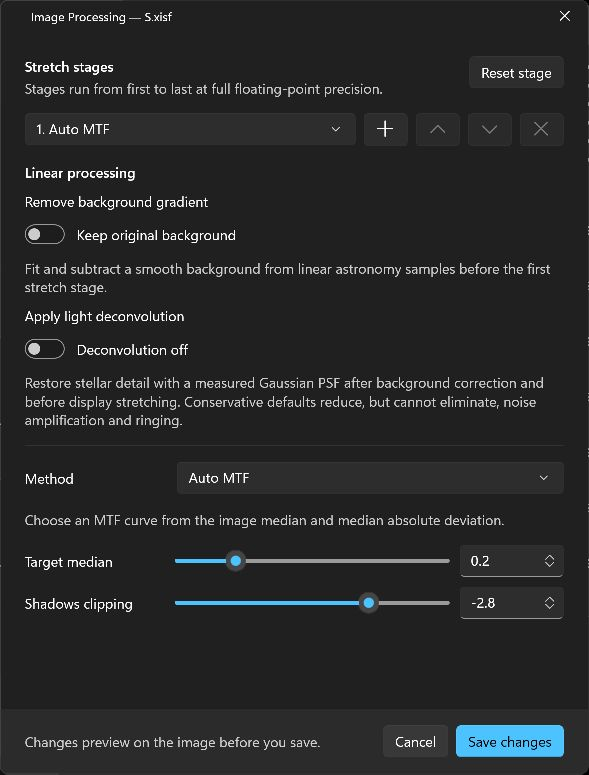
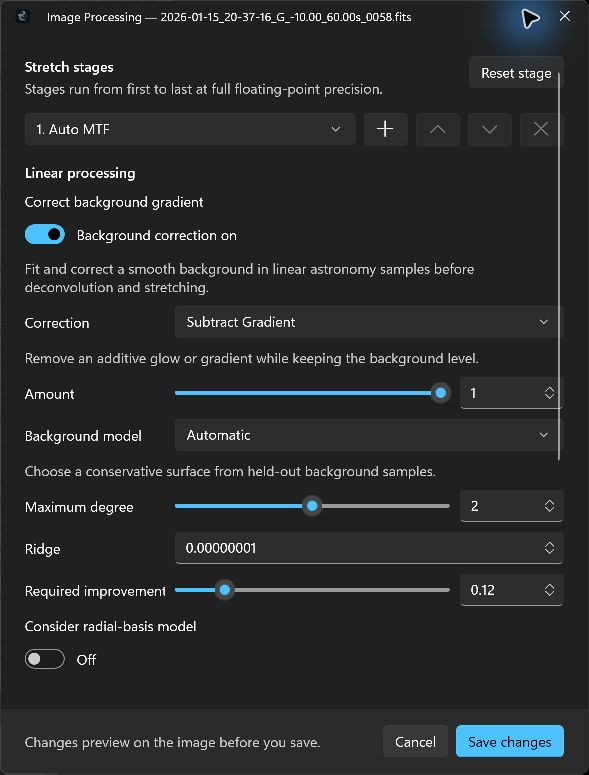
Prepare Seiza for Windows 0.5.3

diff --git a/README.md b/README.md
@@ -4,22 +4,23 @@ Seiza is a fast, native Windows astronomy image viewer and plate-solving app.
 It combines a modern WinUI 3 interface and GPU-backed viewport with the same
 Rust image, catalog, and solving core used by Seiza on macOS.
 
-[Download Seiza 0.5.2 for Windows (x64)](https://github.com/theatrus/seiza-win/releases/download/v0.5.2/seiza-0.5.2-windows-x86_64.msi)
+[Download Seiza 0.5.3 for Windows (x64)](https://github.com/theatrus/seiza-win/releases/download/v0.5.3/seiza-0.5.3-windows-x86_64.msi)
 · [Release notes and previous versions](https://github.com/theatrus/seiza-win/releases)
 
 ![A solved NGC 7000 FITS image with WCS grid, catalog overlays, solution summary, and histogram inspector](docs/images/solved-overlays.png)
 
-## Seiza 0.5.2 release highlights
+## Seiza 0.5.3 release highlights
 
-- Select a FITS or XISF file in File Explorer to inspect an autostretched image
-  in the Preview Pane without opening Seiza.
-- Open images in independent document windows while one Seiza process handles
-  multi-file Open, shell activation, and already-open document focusing.
-- Export FITS and XISF data as true 16-bit-per-channel PNG or TIFF, clean or
-  composited with the currently visible overlays.
-- In-app updates now preserve the signed appcast's MSI filename across GitHub
-  release redirects, allowing Windows Installer to start reliably after the
-  download is verified.
+- Choose automatic, polynomial, or radial-basis background models for FITS and
+  XISF processing, with additive subtraction or multiplicative division.
+- Tune background strength and model-specific fitting parameters while the
+  full-resolution preview updates through the Seiza 0.14 processing core.
+- Let automatic selection compare polynomial fits and optionally consider a
+  flexible radial-basis model, with a minimum-improvement threshold that helps
+  protect real nebula and galaxy structure.
+- Preserve the complete background recipe through undo/redo, adjustment
+  copy/paste, and folder navigation, and inspect fitted-model and sample counts
+  in image metadata.
 
 ### Native Explorer previews and thumbnails
 
@@ -143,8 +144,8 @@ remaining macOS and Windows integration work.
 
 ## Install
 
-Download the [Seiza 0.5.2 x64 MSI](https://github.com/theatrus/seiza-win/releases/download/v0.5.2/seiza-0.5.2-windows-x86_64.msi).
-Its [SHA-256 checksums](https://github.com/theatrus/seiza-win/releases/download/v0.5.2/SHA256SUMS.txt)
+Download the [Seiza 0.5.3 x64 MSI](https://github.com/theatrus/seiza-win/releases/download/v0.5.3/seiza-0.5.3-windows-x86_64.msi).
+Its [SHA-256 checksums](https://github.com/theatrus/seiza-win/releases/download/v0.5.3/SHA256SUMS.txt)
 are published beside it. The installer places Seiza in
 `Program Files\Seiza for Windows` for every user, adds a shared Start Menu
 shortcut, and registers `.fit`, `.fits`, `.fts`, and `.xisf` with Windows
@@ -181,7 +182,7 @@ Build the self-contained all-users WiX MSI:
 ```powershell
 dotnet build packaging\windows\Seiza.App.wixproj `
   -c Release `
-  -p:SeizaVersion=0.5.2
+  -p:SeizaVersion=0.5.3
 ```
 
 The installer is written to `dist`. See the

diff --git a/docs/releases/v0.5.3.md b/docs/releases/v0.5.3.md
@@ -1,0 +1,38 @@
+# Seiza for Windows 0.5.3
+
+This release adds the Seiza 0.14 background-model controls to the Windows
+astronomy processing workflow.
+
+## Changes
+
+- Added automatic, polynomial, and radial-basis background models for FITS and
+  XISF images, with both subtract and divide correction modes.
+- Added adjustable correction strength and model-specific controls for
+  polynomial degree and ridge, radial-basis smoothing and control points, and
+  automatic model selection.
+- Added optional radial-basis consideration and a minimum-improvement threshold
+  to automatic selection. The interface warns that flexible radial-basis fits
+  can remove genuine extended nebula or galaxy detail.
+- Preserved complete background configurations through undo and redo,
+  adjustment copy/paste, and folder navigation. Recipes from older releases
+  continue to load as degree-two polynomial corrections.
+- Added the fitted model and accepted/candidate background sample counts to the
+  metadata inspector.
+- Updated the native processing core to Seiza 0.14.0.
+
+## Update from 0.5.2
+
+Use **More > Check for updates** or **Settings > Check now**. Seiza verifies the
+signed appcast and MSI before opening Windows Installer, then exits so the
+normal UAC and in-place upgrade can run.
+
+## Install directly
+
+Download `seiza-0.5.3-windows-x86_64.msi` and compare it with the value in
+`SHA256SUMS.txt`. Windows 11 24H2 or newer on an x64 computer is required.
+
+The installer is self-contained and installs Seiza for every user. It includes
+the .NET 10 and Windows App SDK runtimes. The MSI is not yet
+Authenticode-signed, so Windows can show an unknown-publisher warning even
+though Seiza's updater independently verifies the release with its Ed25519
+trust key.

diff --git a/packaging/windows/README.md b/packaging/windows/README.md
@@ -23,7 +23,7 @@ Build the installer from the repository root:
 ```powershell
 dotnet build packaging\windows\Seiza.App.wixproj `
   -c Release `
-  -p:SeizaVersion=0.5.2
+  -p:SeizaVersion=0.5.3
 ```
 
 The MSI is written to `dist`. The version must be a valid three-part MSI
@@ -44,7 +44,7 @@ validation:
 
 ```powershell
 .\.github\scripts\test-windows-installer.ps1 `
-  -Msi .\dist\seiza-0.5.2-windows-x86_64.msi
+  -Msi .\dist\seiza-0.5.3-windows-x86_64.msi
 ```
 
 Tagged releases use `.github/workflows/release.yml` to build and smoke-test
